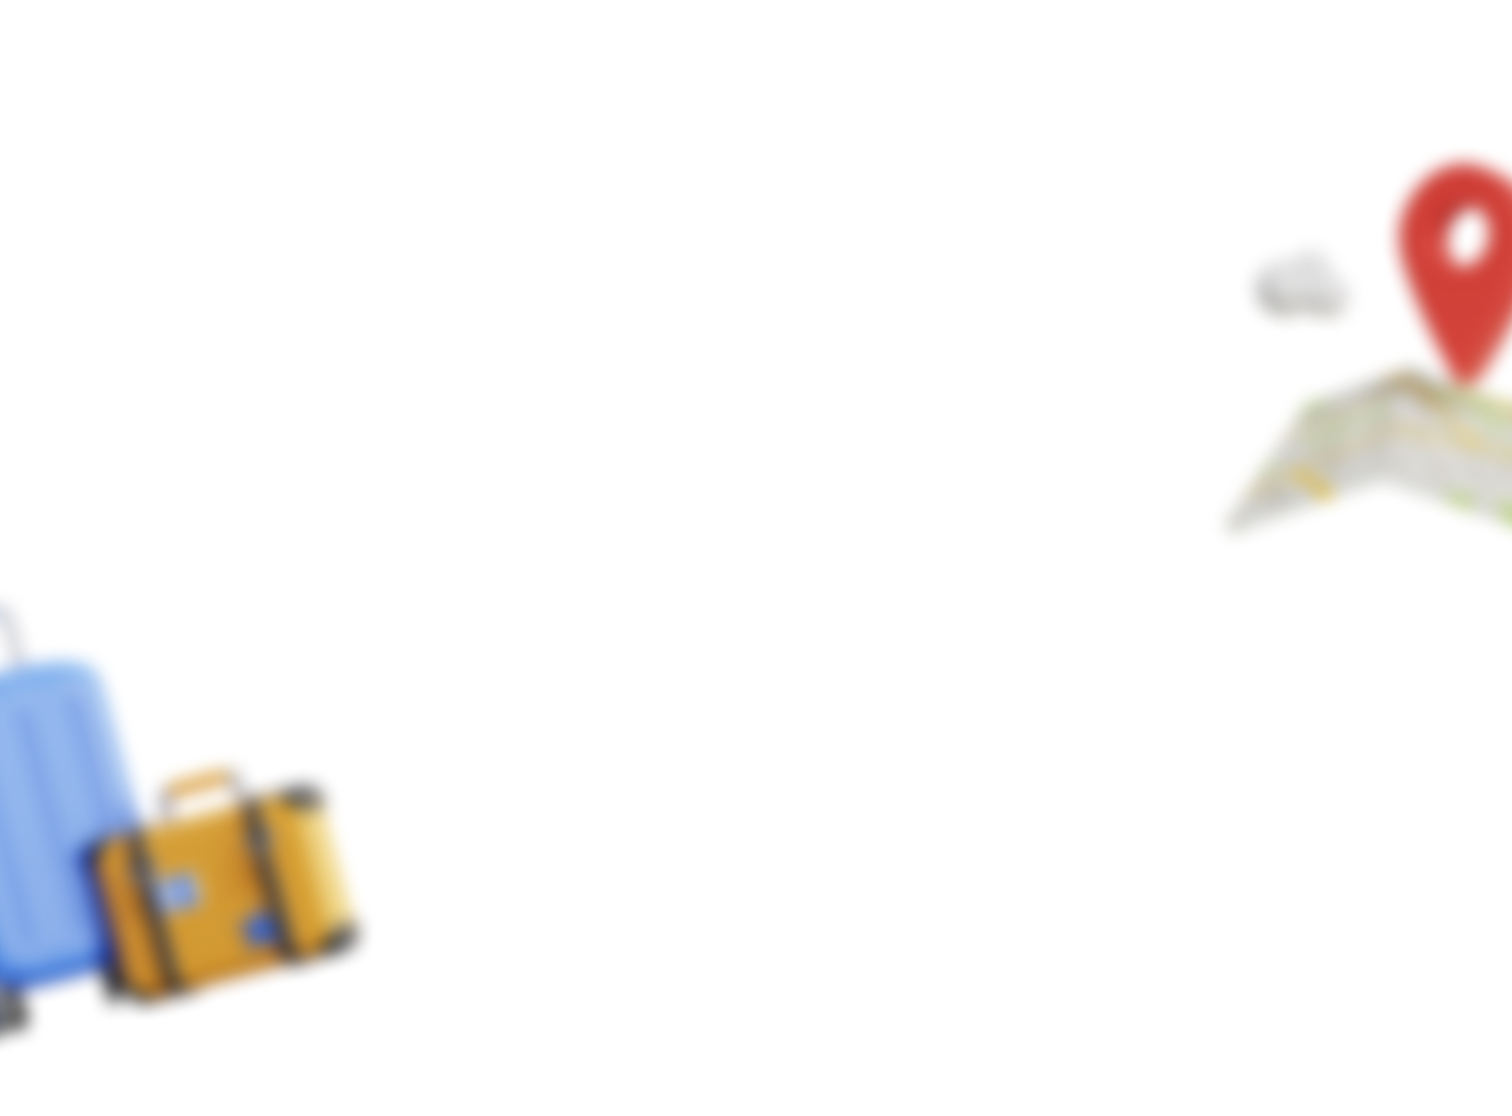
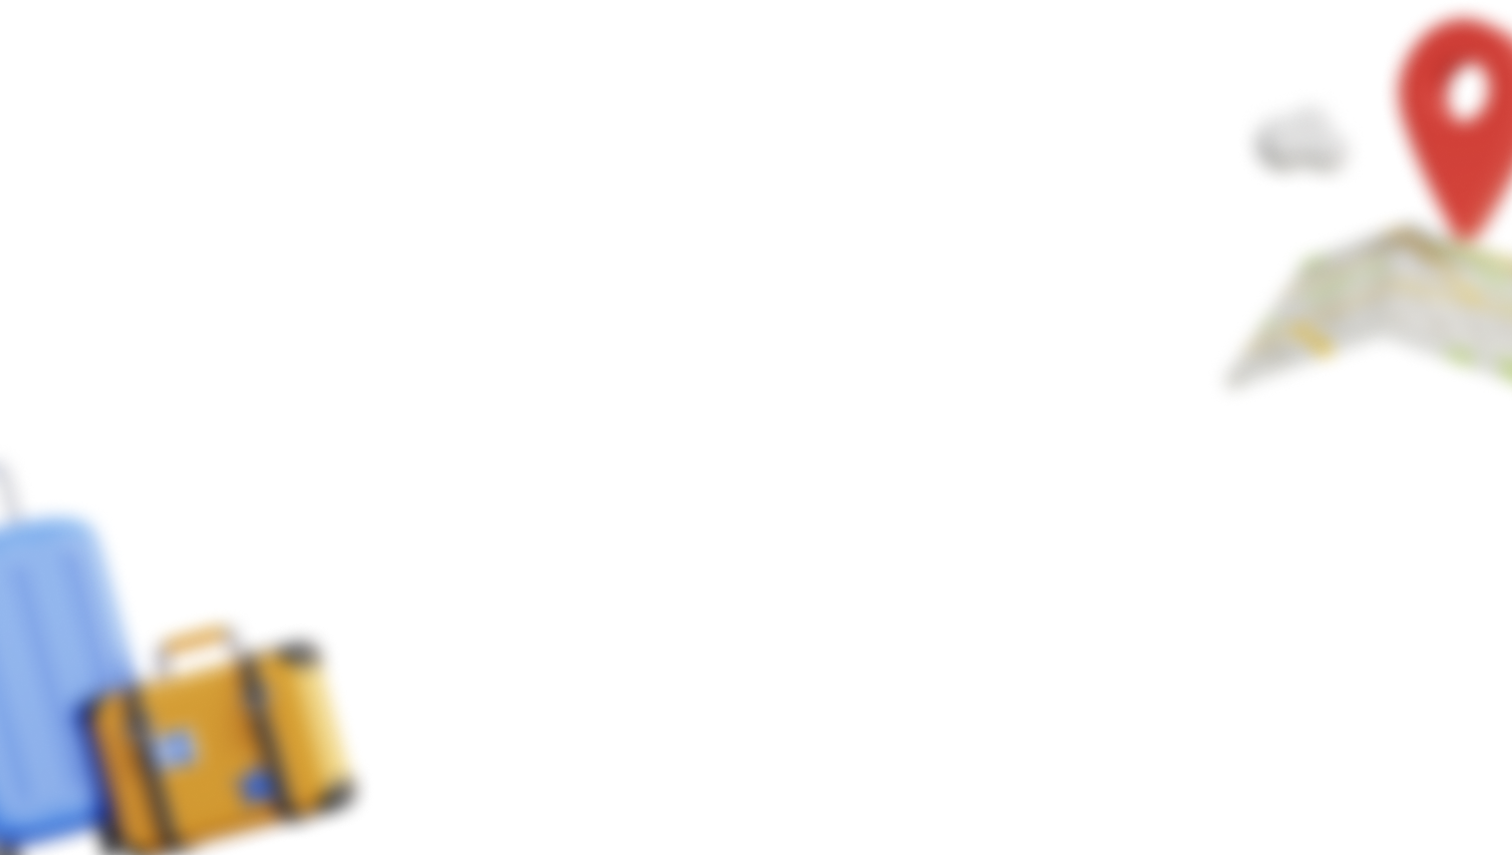
posicionando o background

Changed region(s): [[0.8082, 0.0, 1.0, 0.4865], [0.0, 0.5778, 0.2487, 1.0]]

diff --git a/src/components/Secao2.jsx b/src/components/Secao2.jsx
@@ -2,8 +2,8 @@ import CardBeneficiosVlk from "./CardBeneficiosVlk";
 
 function Secao2() {
   return (
-    <div className="bg-[url('/public/IMG-SECTION.png')]  w-full  bg-center bg-contain bg-no-repeat h-screen mt-40">
-      <div className="bg-cover w-[80%] mx-auto my-0">
+    <div className="bg-[url('/public/IMG-SECTION.png')] bg-no-repeat bg-cover bg-center h-screen w-screen mt-40">
+      <div className=" w-[80%] mx-auto my-0">
         <div className="grid place-items-center w-full">
           <h1 className="font-bold text-4xl">Porque escolher a VLK?</h1>
 

diff --git a/src/components/Home.jsx b/src/components/Home.jsx
@@ -12,7 +12,7 @@ function Home() {
   }
 
   return (
-    <div className="bg-[url('/public/BACKGROUND.png')] bg-no-repeat bg-cover ">
+    <div className="bg-[url('/public/BACKGROUND.png')] bg-no-repeat bg-cover">
       <div className="bg-cover w-[80%] mx-auto my-0">
         <Header
           menu={menu}
